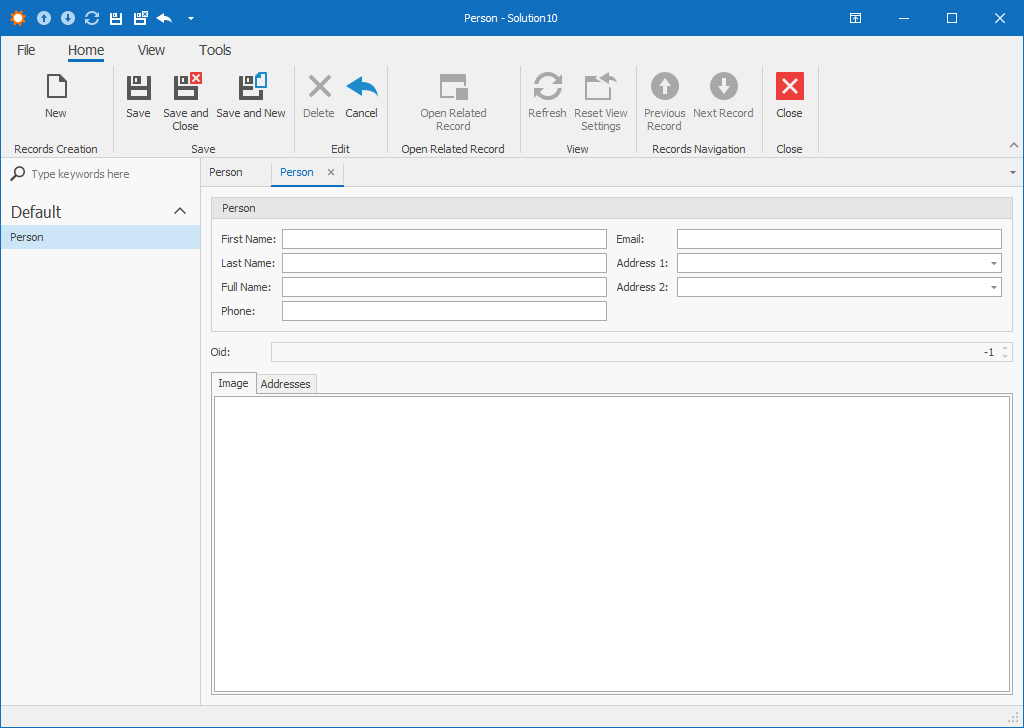
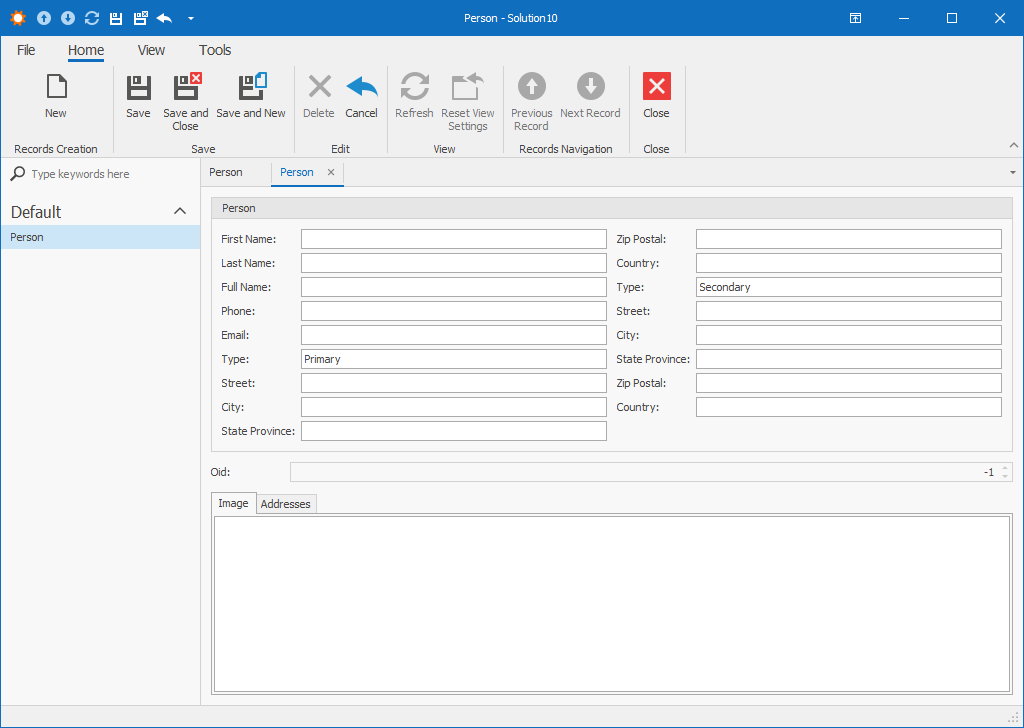
docs: simple layout builders #1

diff --git a/docs/.vuepress/config.js b/docs/.vuepress/config.js
@@ -60,6 +60,7 @@ module.exports = {
                     collapsable: false,
                     children: [
                         ['layout-builders', 'Introduction'],
+                        ['layout-builders-simple-registration', 'Simple Registration'],
                     ]
                 },
                 {

diff --git a/docs/guide/samples/layout-builders-simple/SimpleLayout.cs b/docs/guide/samples/layout-builders-simple/SimpleLayout.cs
@@ -1,0 +1,133 @@
+using DevExpress.Persistent.Base;
+using DevExpress.Xpo;
+
+using Xenial.Framework.Layouts;
+using Xenial.Framework.Layouts.Items;
+using Xenial.Framework.Layouts.Items.Base;
+using Xenial.Framework.Layouts.Items.LeafNodes;
+
+namespace MainDemo.Module.BusinessObjects
+{
+    [Persistent]
+    [DefaultClassOptions]
+    [DetailViewLayoutBuilder(nameof(BuildMyDetailViewLayout))]
+    public class Person : XPObject
+    {
+        public static Layout BuildMyDetailViewLayout()
+        {
+            return new Layout
+            {
+                new VerticalLayoutGroupItem
+                {
+                    Caption = "Person",
+                    ShowCaption = true,
+                    RelativeSize = 25,
+                    Children =
+                    {
+                        new HorizontalLayoutGroupItem
+                        {
+                            new LayoutPropertyEditorItem(nameof(Image))
+                            {
+                                ShowCaption = false,
+                                RelativeSize = 10
+                            },
+                            new HorizontalLayoutGroupItem
+                            {
+                                new VerticalLayoutGroupItem
+                                {
+                                    new LayoutPropertyEditorItem(nameof(FullName)),
+                                    new HorizontalLayoutGroupItem
+                                    {
+                                        new LayoutPropertyEditorItem(nameof(FirstName)),
+                                        new LayoutPropertyEditorItem(nameof(LastName)),
+                                    },
+                                    new HorizontalLayoutGroupItem
+                                    {
+                                        new LayoutPropertyEditorItem(nameof(Email)),
+                                        new LayoutPropertyEditorItem(nameof(Phone)),
+                                    },
+                                    new LayoutEmptySpaceItem(),
+                                }
+                            }
+                        }
+                    }
+                },
+                new LayoutTabbedGroupItem
+                {
+                    new LayoutTabGroupItem("Primary Address")
+                    {
+                        new HorizontalLayoutGroupItem
+                        {
+                            new VerticalLayoutGroupItem
+                            {
+                                new LayoutPropertyEditorItem($"{nameof(Address1)}.{nameof(Address.Street)}")
+                                {
+                                    CaptionLocation = Locations.Top
+                                },
+                                new HorizontalLayoutGroupItem
+                                {
+                                    new LayoutPropertyEditorItem($"{nameof(Address1)}.{nameof(Address.City)}")
+                                    {
+                                        CaptionLocation = Locations.Top
+                                    },
+                                    new LayoutPropertyEditorItem($"{nameof(Address1)}.{nameof(Address.ZipPostal)}")
+                                    {
+                                        CaptionLocation = Locations.Top
+                                    },
+                                },
+                                new LayoutPropertyEditorItem($"{nameof(Address1)}.{nameof(Address.StateProvince)}")
+                                {
+                                    CaptionLocation = Locations.Top
+                                },
+                                new LayoutPropertyEditorItem($"{nameof(Address1)}.{nameof(Address.Country)}")
+                                {
+                                    CaptionLocation = Locations.Top
+                                },
+                            },
+                            new LayoutEmptySpaceItem(),
+                        },
+                        new LayoutEmptySpaceItem(),
+                    },
+                    new LayoutTabGroupItem("Secondary Address")
+                    {
+                        new HorizontalLayoutGroupItem
+                        {
+                            new VerticalLayoutGroupItem
+                            {
+                                new LayoutPropertyEditorItem($"{nameof(Address2)}.{nameof(Address.Street)}")
+                                {
+                                    CaptionLocation = Locations.Top
+                                },
+                                new HorizontalLayoutGroupItem
+                                {
+                                    new LayoutPropertyEditorItem($"{nameof(Address2)}.{nameof(Address.City)}")
+                                    {
+                                        CaptionLocation = Locations.Top
+                                    },
+                                    new LayoutPropertyEditorItem($"{nameof(Address2)}.{nameof(Address.ZipPostal)}")
+                                    {
+                                        CaptionLocation = Locations.Top
+                                    },
+                                },
+                                new LayoutPropertyEditorItem($"{nameof(Address2)}.{nameof(Address.StateProvince)}")
+                                {
+                                    CaptionLocation = Locations.Top
+                                },
+                                new LayoutPropertyEditorItem($"{nameof(Address2)}.{nameof(Address.Country)}")
+                                {
+                                    CaptionLocation = Locations.Top
+                                },
+                            },
+                            new LayoutEmptySpaceItem(),
+                        },
+                        new LayoutEmptySpaceItem(),
+                    },
+                    new LayoutTabGroupItem("Additional Addresses")
+                    {
+                        new LayoutPropertyEditorItem(nameof(Addresses))
+                    }
+                }
+            };
+        }
+    }
+}

diff --git a/docs/guide/samples/layout-builders-simple/Person.cs b/docs/guide/samples/layout-builders-simple/Person.cs
@@ -16,6 +16,21 @@ namespace MainDemo.Module.BusinessObjects
 
         public Person(Session session) : base(session) { }
 
+        public override void AfterConstruction()
+        {
+            base.AfterConstruction();
+            Address1 = new Address(Session)
+            {
+                Person = this,
+                Type = "Primary"
+            };
+            Address2 = new Address(Session)
+            {
+                Person = this,
+                Type = "Secondary"
+            };
+        }
+
         [Persistent]
         public string FirstName
         {
@@ -59,6 +74,7 @@ namespace MainDemo.Module.BusinessObjects
         }
 
         [Persistent]
+        [ExpandObjectMembers(ExpandObjectMembers.InDetailView)]
         public Address Address1
         {
             get => address1;
@@ -66,6 +82,7 @@ namespace MainDemo.Module.BusinessObjects
         }
 
         [Persistent]
+        [ExpandObjectMembers(ExpandObjectMembers.InDetailView)]
         public Address Address2
         {
             get => address2;

diff --git a/docs/guide/samples/layout-builders-simple/RegisterSimple3.cs b/docs/guide/samples/layout-builders-simple/RegisterSimple3.cs
@@ -1,0 +1,21 @@
+using DevExpress.Persistent.Base;
+using DevExpress.Xpo;
+
+using Xenial.Framework.Layouts;
+using Xenial.Framework.Layouts.Items.Base;
+
+namespace MainDemo.Module.BusinessObjects
+{
+    [Persistent]
+    [DefaultClassOptions]
+    [DetailViewLayoutBuilder(typeof(PersonLayouts), nameof(BuildMyDetailViewLayout))]
+    public class Person : XPObject { }
+
+    public static class PersonLayouts
+    {
+        public static Layout BuildMyDetailViewLayout()
+        {
+            return new Layout();
+        }
+    }
+}

diff --git a/docs/guide/samples/layout-builders-simple/RegisterSimple2.cs b/docs/guide/samples/layout-builders-simple/RegisterSimple2.cs
@@ -1,0 +1,19 @@
+using DevExpress.Persistent.Base;
+using DevExpress.Xpo;
+
+using Xenial.Framework.Layouts;
+using Xenial.Framework.Layouts.Items.Base;
+
+namespace MainDemo.Module.BusinessObjects
+{
+    [Persistent]
+    [DefaultClassOptions]
+    [DetailViewLayoutBuilder(nameof(BuildMyDetailViewLayout))]
+    public class Person : XPObject
+    {
+        public static Layout BuildMyDetailViewLayout()
+        {
+            return new Layout();
+        }
+    }
+}

diff --git a/docs/guide/samples/layout-builders-simple/RegisterSimple1.cs b/docs/guide/samples/layout-builders-simple/RegisterSimple1.cs
@@ -1,0 +1,19 @@
+using DevExpress.Persistent.Base;
+using DevExpress.Xpo;
+
+using Xenial.Framework.Layouts;
+using Xenial.Framework.Layouts.Items.Base;
+
+namespace MainDemo.Module.BusinessObjects
+{
+    [Persistent]
+    [DefaultClassOptions]
+    [DetailViewLayoutBuilder]
+    public class Person : XPObject
+    {
+        public static Layout BuildLayout()
+        {
+            return new Layout();
+        }
+    }
+}

diff --git a/docs/guide/samples/layout-builders-simple/RegisterInModule.cs b/docs/guide/samples/layout-builders-simple/RegisterInModule.cs
@@ -1,0 +1,15 @@
+using DevExpress.ExpressApp;
+using DevExpress.ExpressApp.Model.Core;
+
+namespace MyApplication.Module
+{
+    public sealed partial class MyApplicationModule : ModuleBase
+    {
+        public override void AddGeneratorUpdaters(ModelNodesGeneratorUpdaters updaters)
+        {
+            base.AddGeneratorUpdaters(updaters);
+
+            updaters.UseDetailViewLayoutBuilders();
+        }
+    }
+}

diff --git a/docs/guide/layout-builders-simple-registration.md b/docs/guide/layout-builders-simple-registration.md
@@ -1,0 +1,62 @@
+---
+title: DetailViewLayoutBuilders - Simple registration
+---
+
+# DetailViewLayoutBuilders - Simple registration
+
+Because `Xenial.Framework` is designed to be flexible and tries to minimize your overhead let's start with the first way of using `LayoutBuilders` with the `simple registration` approach.  
+
+But before we dig into the details of building a layout, we need to tell XAF to use the `LayoutBuilders`.  
+For this we need to override the `AddGeneratorUpdaters` in our platform agnostic module and call the `updaters.UseDetailViewLayoutBuilders()` extension method.
+
+<<< @/guide/samples/layout-builders-simple/RegisterInModule.cs{8,12}
+
+## Defining the builder method
+
+Next step is that we need to declare an public static method in the class we want to provide a layout for called `BuildLayout` that returns an `Xenial.Framework.Layouts.Items.Base.Layout` instance and decorate it with the `DetailViewLayoutBuilderAttribute`.  
+The `DetailViewLayoutBuilderAttribute` defines the method and type that is responsible for building our `DetailView`.
+
+<<< @/guide/samples/layout-builders-simple/RegisterSimple1.cs{11,14-17}
+
+After registering our builder and restart the application we should see an empty layout, but no worries we will fill the void in just a moment.
+
+![Person Void Layout](/images/guide/layout-builders/person-void-layout.png)
+
+::: tip
+If you don't like this convention there are [some overloads for stricter](#other-registrations) registration patterns.
+:::
+
+::: warning
+If your don't see a blank page at this stage, make sure your `Model.DesignedDiffs.xafml` files (also in the `Win` project) for this `DetailView` has **no differences** and make sure to delete or disable the `User differences` file.  
+Normally this file is located in the Application output directory called `Model.User.xafml`.
+:::
+
+## Building the layout
+
+All the components used to build the layout are normal C# classes and are designed to work well with C#'s initializer syntax. However there are more compact and [advanced syntax](/guide/layout-builders-advanced-registration.md) patterns. See the [reference for the used classes](/guide/layout-builders-reference.md) for more details.
+
+<<< @/guide/samples/layout-builders-simple/SimpleLayout.cs
+
+Don't panic on this very verbose and long syntax. We will go through the basics one by one, but first look at the result:
+
+![Person Result Layout](/images/guide/layout-builders/person-result-layout-simple.png)
+
+## Other registrations
+
+If you don't like the convention based `BuildLayout`, you also can provide an custom method name by passing it as a parameter to the `DetailViewLayoutBuilderAttribute`.
+
+<<< @/guide/samples/layout-builders-simple/RegisterSimple2.cs{11,14}
+
+::: tip
+Because layouts can be big in code size, you can move your layout to a separate file using the [`partial class` pattern](https://docs.microsoft.com/en-us/dotnet/csharp/programming-guide/classes-and-structs/partial-classes-and-methods).  
+:::
+
+If you want to keep your builder in a separate class instead (for example if you want to split XPO/XAF into separate assemblies), you also can provide the type of the class:
+
+<<< @/guide/samples/layout-builders-simple/RegisterSimple3.cs{11,14-20}
+
+::: tip
+The convention based naming approach also works for external types, by just removing the target method name `[DetailViewLayoutBuilder(typeof(PersonLayouts))]`.  
+Then of course the method name would be `BuildLayout` in the `PersonLayouts` class.
+:::
+
